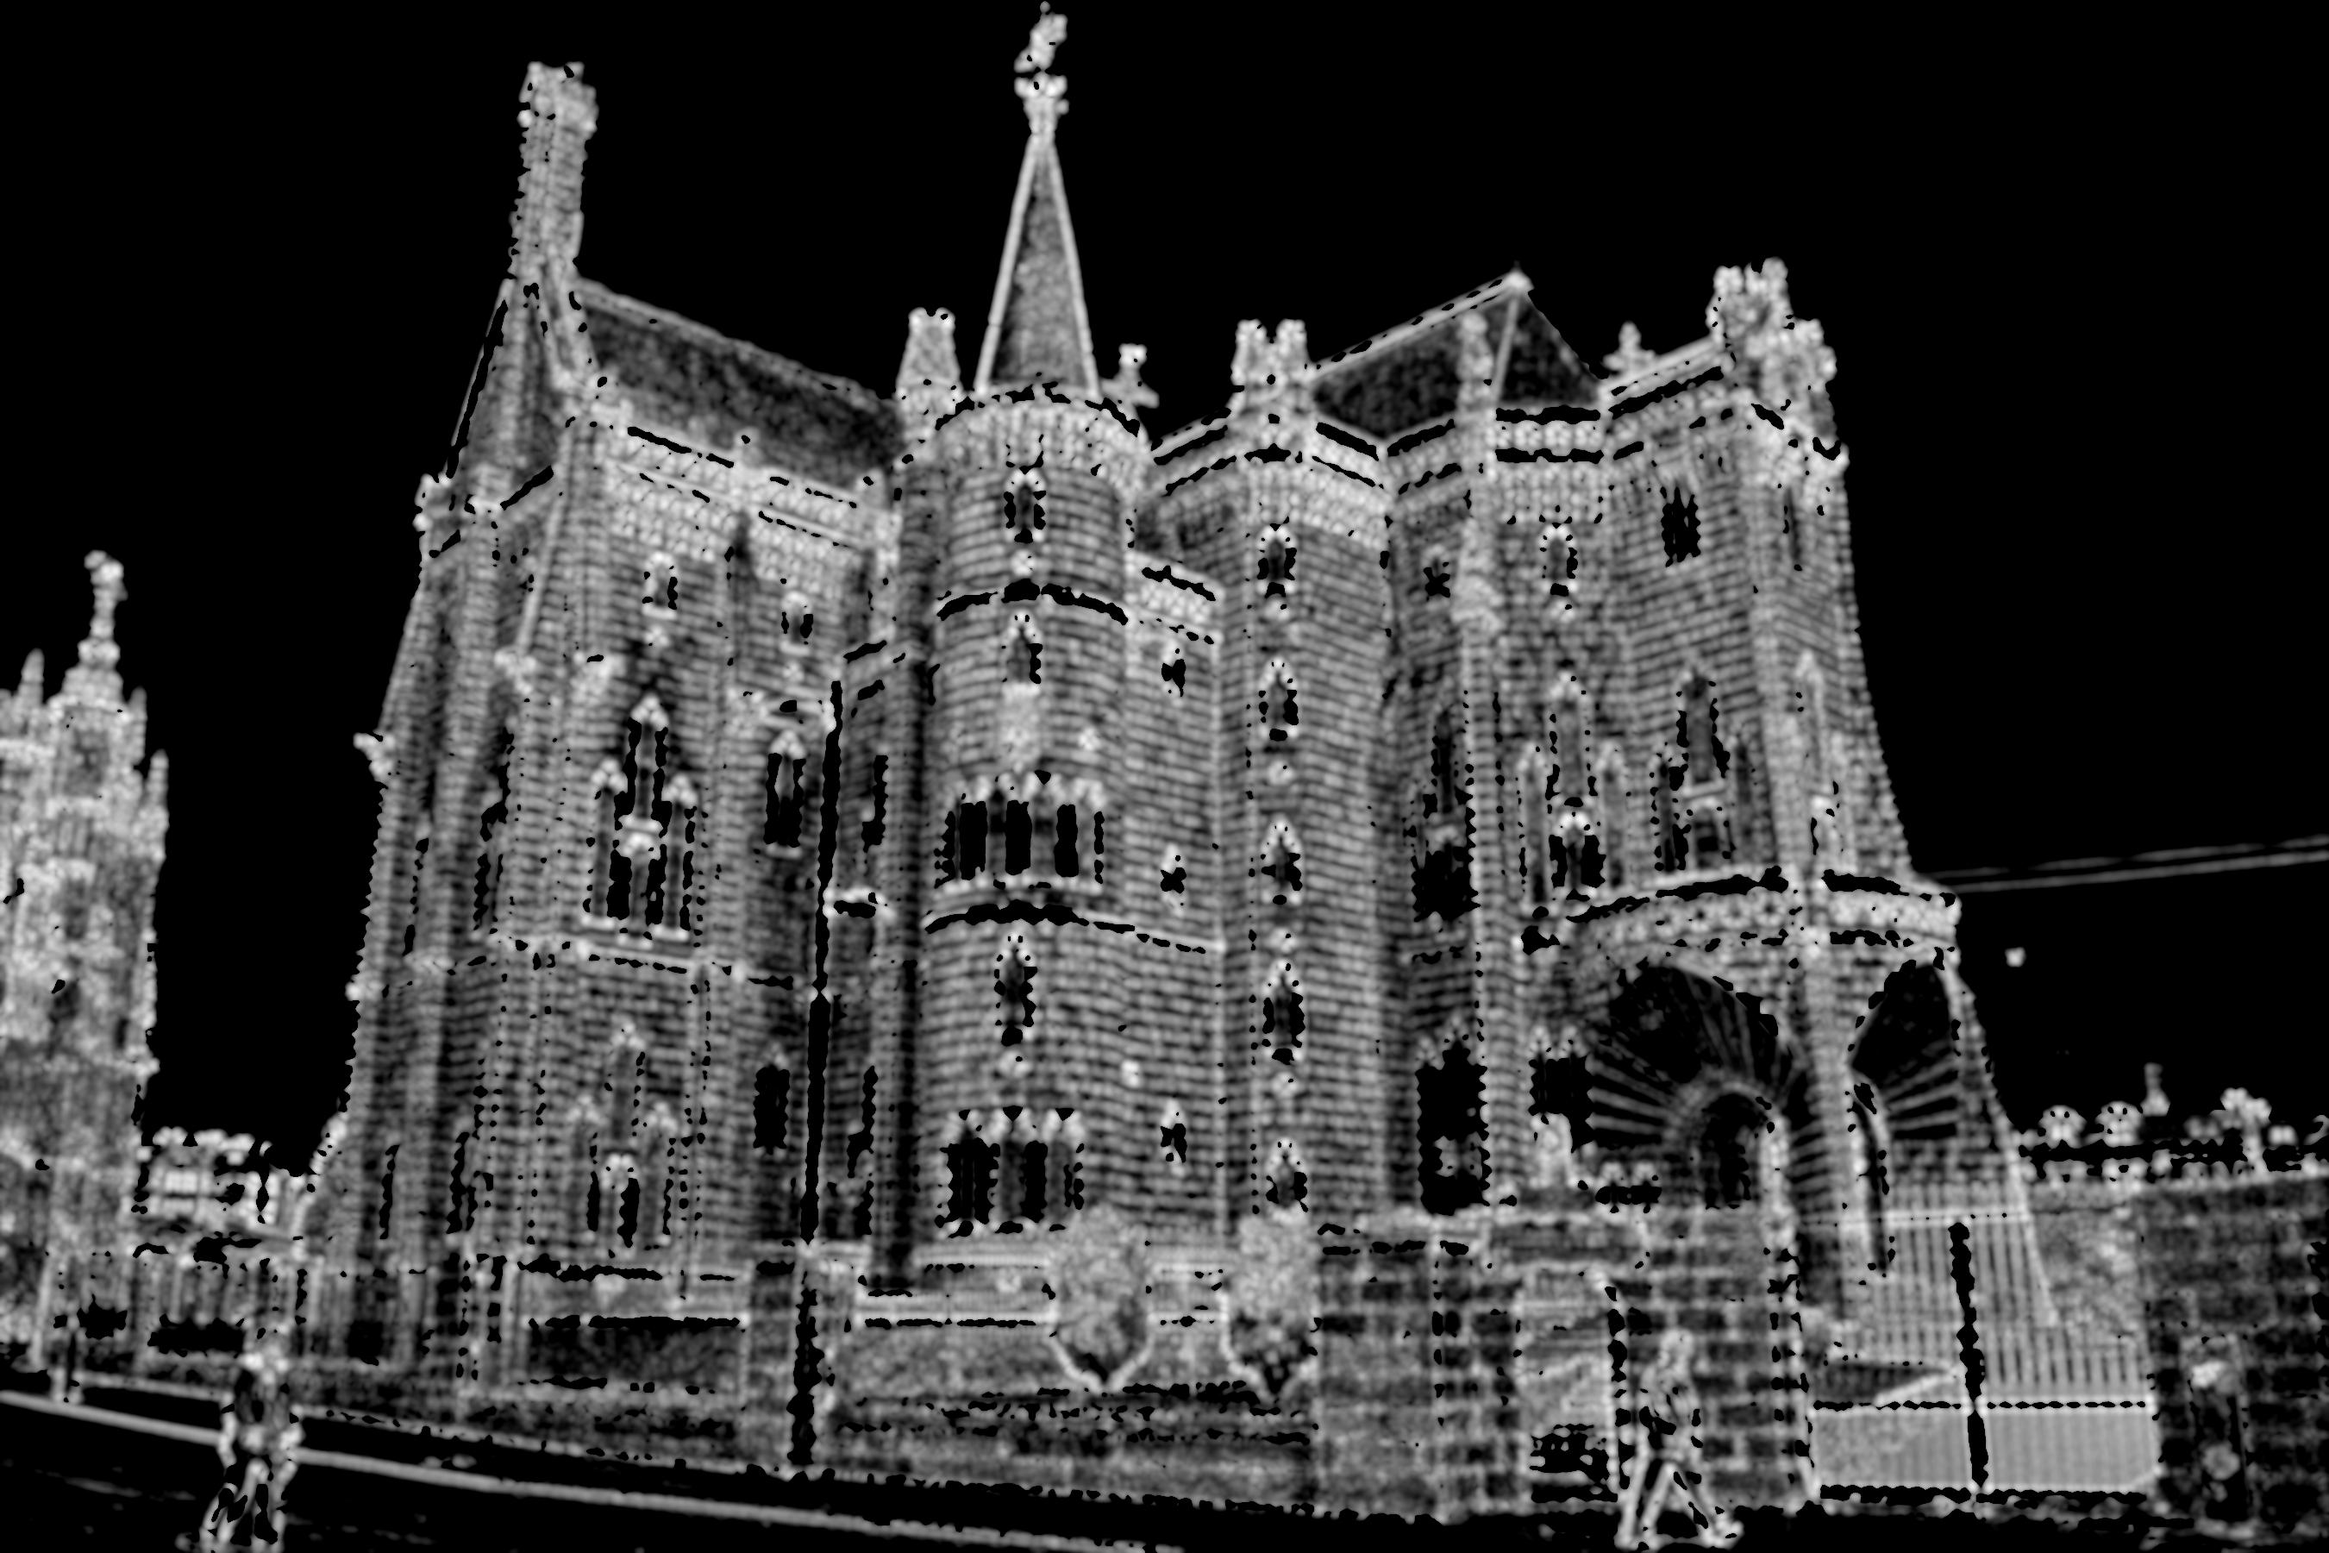
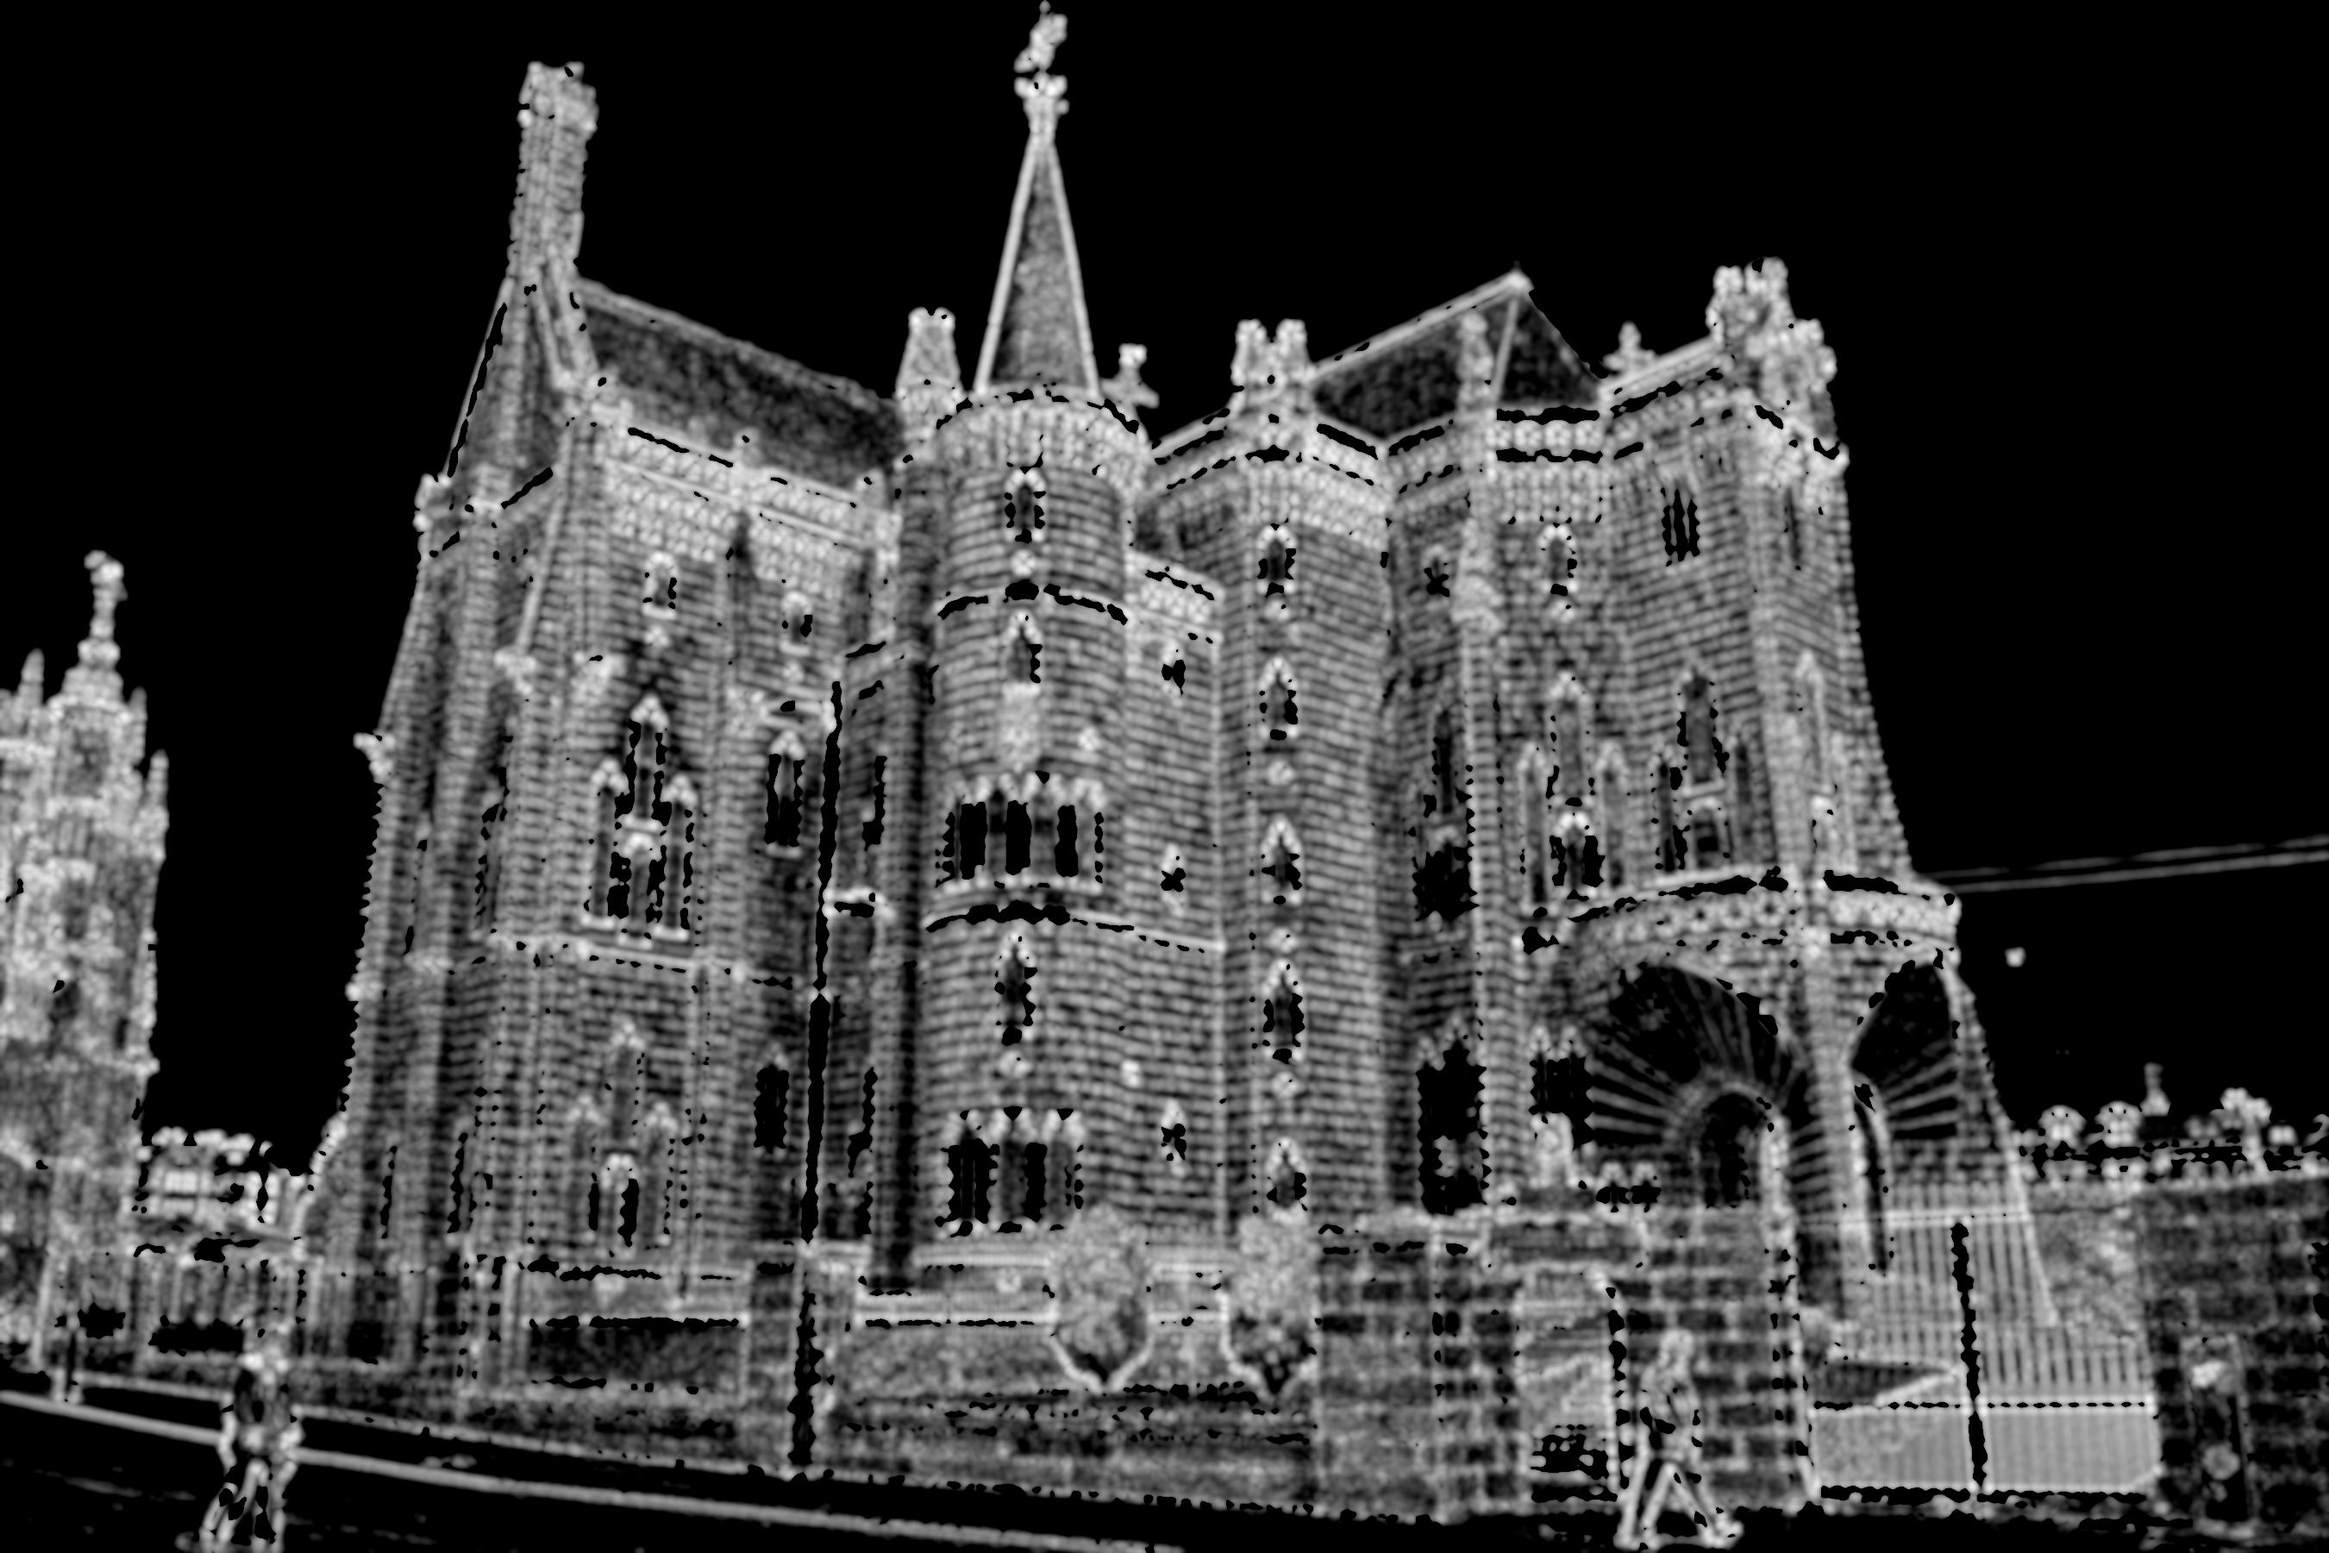
Finish lab4 task 2

diff --git a/lab4/lab4.py b/lab4/lab4.py
@@ -8,13 +8,10 @@ import PIL as pil
 import os.path
 import Image, ImageDraw
 
-ALPHA = 0.05
+ALPHA = 0.04
 WINDOW_SIZE = 3 # window will be windowSize*2 + 1
-TRESHOLD = 1000
-SEARCH_SIZE = 5
-
-# Questions:
-# Why are we doing the second gaussian? We we do not need to calculate a sum per each pixel point?
+TRESHOLD = 100
+ANMS_COEFFICIENT = 0.98
 
 def mkPath(filename, suffix):
     basePath, extPath = os.path.splitext(filename)
@@ -31,40 +28,49 @@ def drawCorners(filename, points, suffix):
         drawSmallCircle(draw, y, x, width = 6)
     im.save(mkPath(filename, suffix), "JPEG")
 
-def filter_maxima(corners, result):
+def drawCornersWithRadius(filename, points, suffix):
+    im = Image.open(filename)
+    draw = ImageDraw.Draw(im)
+    for (x,y,r) in points:
+        drawSmallCircle(draw, y, x, width = r)
+        drawSmallCircle(draw, y, x, outlineColor = (255, 0, 0), width = 3)
+    im.save(mkPath(filename, suffix), "JPEG")
+
+def filter_maxima(corners, result, span = 5, coefficient = 1.0):
     maximas = []
     for (y, x) in corners:
-        top = np.max([y - SEARCH_SIZE, 0])
-        bottom = np.min([y + SEARCH_SIZE + 1, result.shape[0] - 1])
-        left = np.max([x - SEARCH_SIZE, 0])
-        right = np.min([x + SEARCH_SIZE + 1, result.shape[1] - 1])
+        v = result[y,x] * coefficient
+        top = np.max([y - span, 0])
+        bottom = np.min([y + span + 1, result.shape[0] - 1])
+        left = np.max([x - span, 0])
+        right = np.min([x + span + 1, result.shape[1] - 1])
         window = result[top:bottom,left:right]
-        if result[y,x] == np.max(window):
+        if np.sum(window >= v) <= 1:
             maximas.append((y,x))
     return np.array(maximas)
 
-def anms_filter(cornersPositions, result):
+def anms_filter(unfilteredCornersPositions, result):
     maximas = []
+    cornersPositions = filter_maxima(unfilteredCornersPositions, result, span = 1, coefficient = 0.98)
+    print("Initial pre-ANMS filtered from %d to %d points" % (len(unfilteredCornersPositions), len(cornersPositions)))
     cornerValues = result[tuple(cornersPositions.T)]
     corners = np.hstack((cornersPositions, cornerValues[:,None]))
     cornersSorted = corners[corners[:,2].argsort()][::-1]
-    # NOTE: If radius == 0.0, then it's infinity! (?)
     cornersRadiuses = []
     for (index, p) in enumerate(cornersSorted):
-        print("index = %d" % index)
-        bigger = cornersSorted[0:index]
-        if np.any(bigger):
-            r = np.amin(np.linalg.norm(bigger[:,0:2] - p[0:2], axis = 1))
+        v = p[2] * ANMS_COEFFICIENT
+        bigger = cornersSorted[cornersSorted[:,2] > v]
+        if bigger.shape[0] > 1:
+            r = np.partition(np.linalg.norm(bigger[:,0:2] - p[0:2], axis = 1), 1)[1]
             cornersRadiuses.append(r)
         else:
             cornersRadiuses.append(np.inf)
     cornersRadiuses = np.array(cornersRadiuses)
     cornersWithRadiuses = np.hstack((cornersSorted, cornersRadiuses[:,None]))
     cornersRadiusesSorted = cornersWithRadiuses[cornersWithRadiuses[:,3].argsort()][::-1]
-    # Brakuje tego ogranicznika na 0.9 wartosci wektora
-    # Moznaby najpierw zrobic zwykle filter_maxima, na jakies bliskie sasiedztwo, a dopiero potem ANMS - ale za to zmniejszyc threshold
-    # Dodac rysowanie promienia gdzie sa te punkty maximum
-    return cornersRadiusesSorted[0:100,0:2]
+    # print(cornersRadiusesSorted[0:20])
+    # print(np.sum(cornersRadiusesSorted[:,3] > 1.44))
+    return cornersRadiusesSorted[0:100,(0,1,3)]
 
 
 def harrisCornerDetector(filename, gaussianDerivativeSigma = 3.0, gaussianFilterSigma = 3.0):
@@ -102,24 +108,27 @@ def harrisCornerDetector(filename, gaussianDerivativeSigma = 3.0, gaussianFilter
 
     print("Finding maximas...")
     cornersPositions = np.argwhere(result > TRESHOLD)
-    maximaCorners = filter_maxima(cornersPositions, result)
+    maximaCorners = filter_maxima(cornersPositions, result, span = 5)
     print("Filtered from %d to %d points" % (len(cornersPositions), len(maximaCorners)))
 
+    import time
+    t1 = time.time()
     maximaCornersAnms = anms_filter(cornersPositions, result)
-    print("Filtered from %d to %d points" % (len(cornersPositions), len(maximaCornersAnms)))
+    t2 = time.time()
+    print("Filtered from %d to %d points in %f seconds" % (len(cornersPositions), len(maximaCornersAnms), (t2 - t1)))
 
     drawCorners(filename, maximaCorners, "-5-with-corners")
-    drawCorners(filename, maximaCornersAnms, "-5-with-corners-anms")
+    drawCornersWithRadius(filename, maximaCornersAnms, "-5-with-corners-anms")
 
 
 def run():
     filenames = [
             "data/Notre Dame/1_o.jpg",
-            # "data/Notre Dame/2_o.jpg",
-            # "data/Mount Rushmore/9021235130_7c2acd9554_o.jpg",
-            # "data/Mount Rushmore/9318872612_a255c874fb_o.jpg",
-            # "data/Episcopal Gaudi/3743214471_1b5bbfda98_o.jpg",
-            # "data/Episcopal Gaudi/4386465943_8cf9776378_o.jpg",
+            "data/Notre Dame/2_o.jpg",
+            "data/Mount Rushmore/9021235130_7c2acd9554_o.jpg",
+            "data/Mount Rushmore/9318872612_a255c874fb_o.jpg",
+            "data/Episcopal Gaudi/3743214471_1b5bbfda98_o.jpg",
+            "data/Episcopal Gaudi/4386465943_8cf9776378_o.jpg",
         ]
     for filename in filenames:
         print("=== File: %s" % filename)
